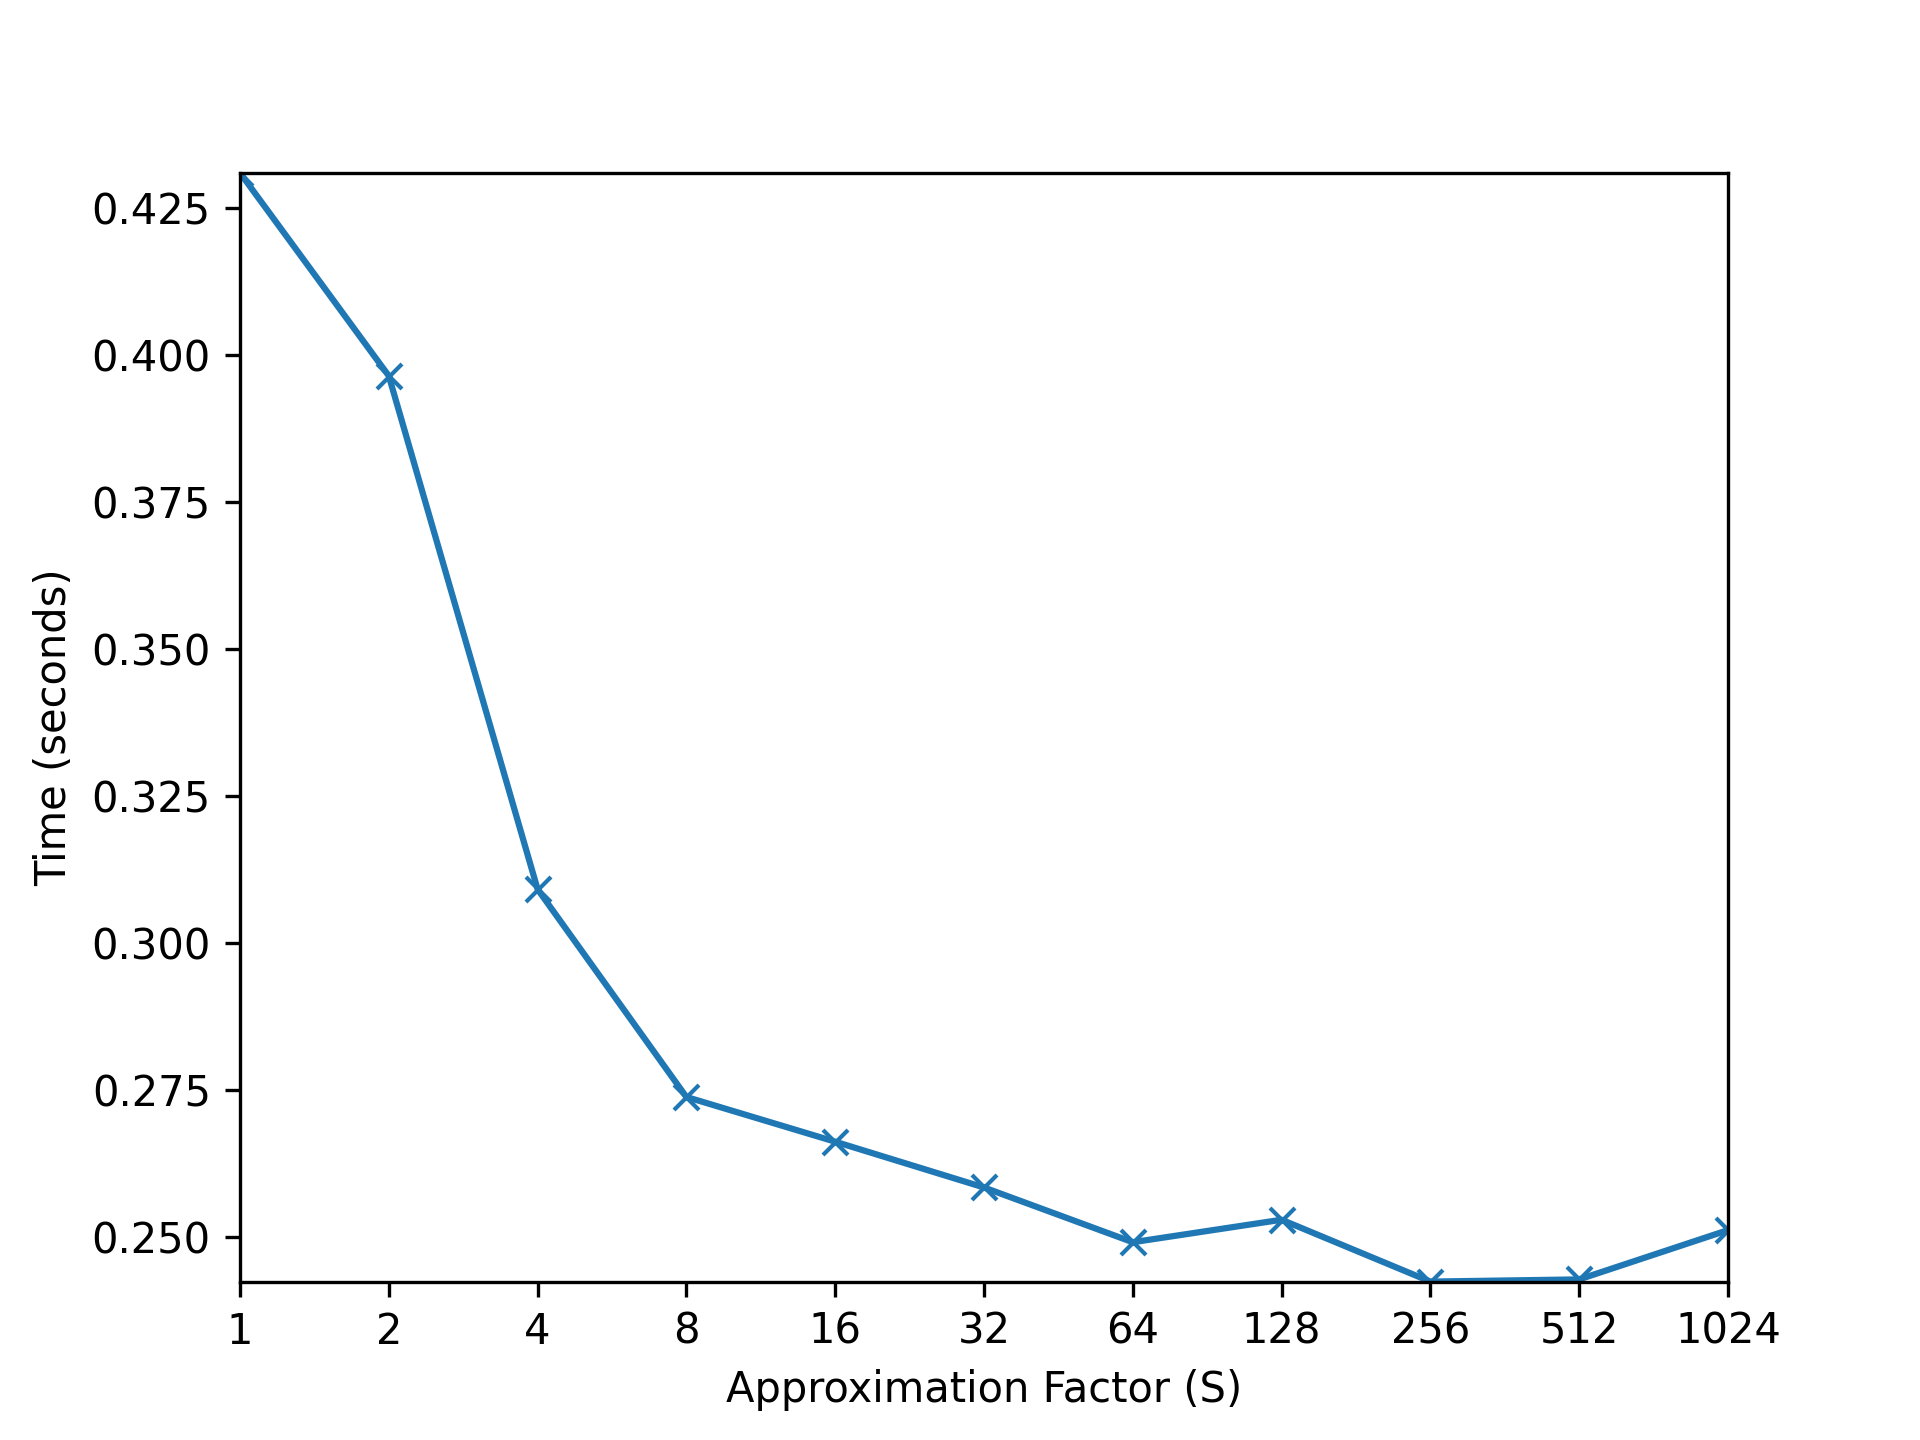
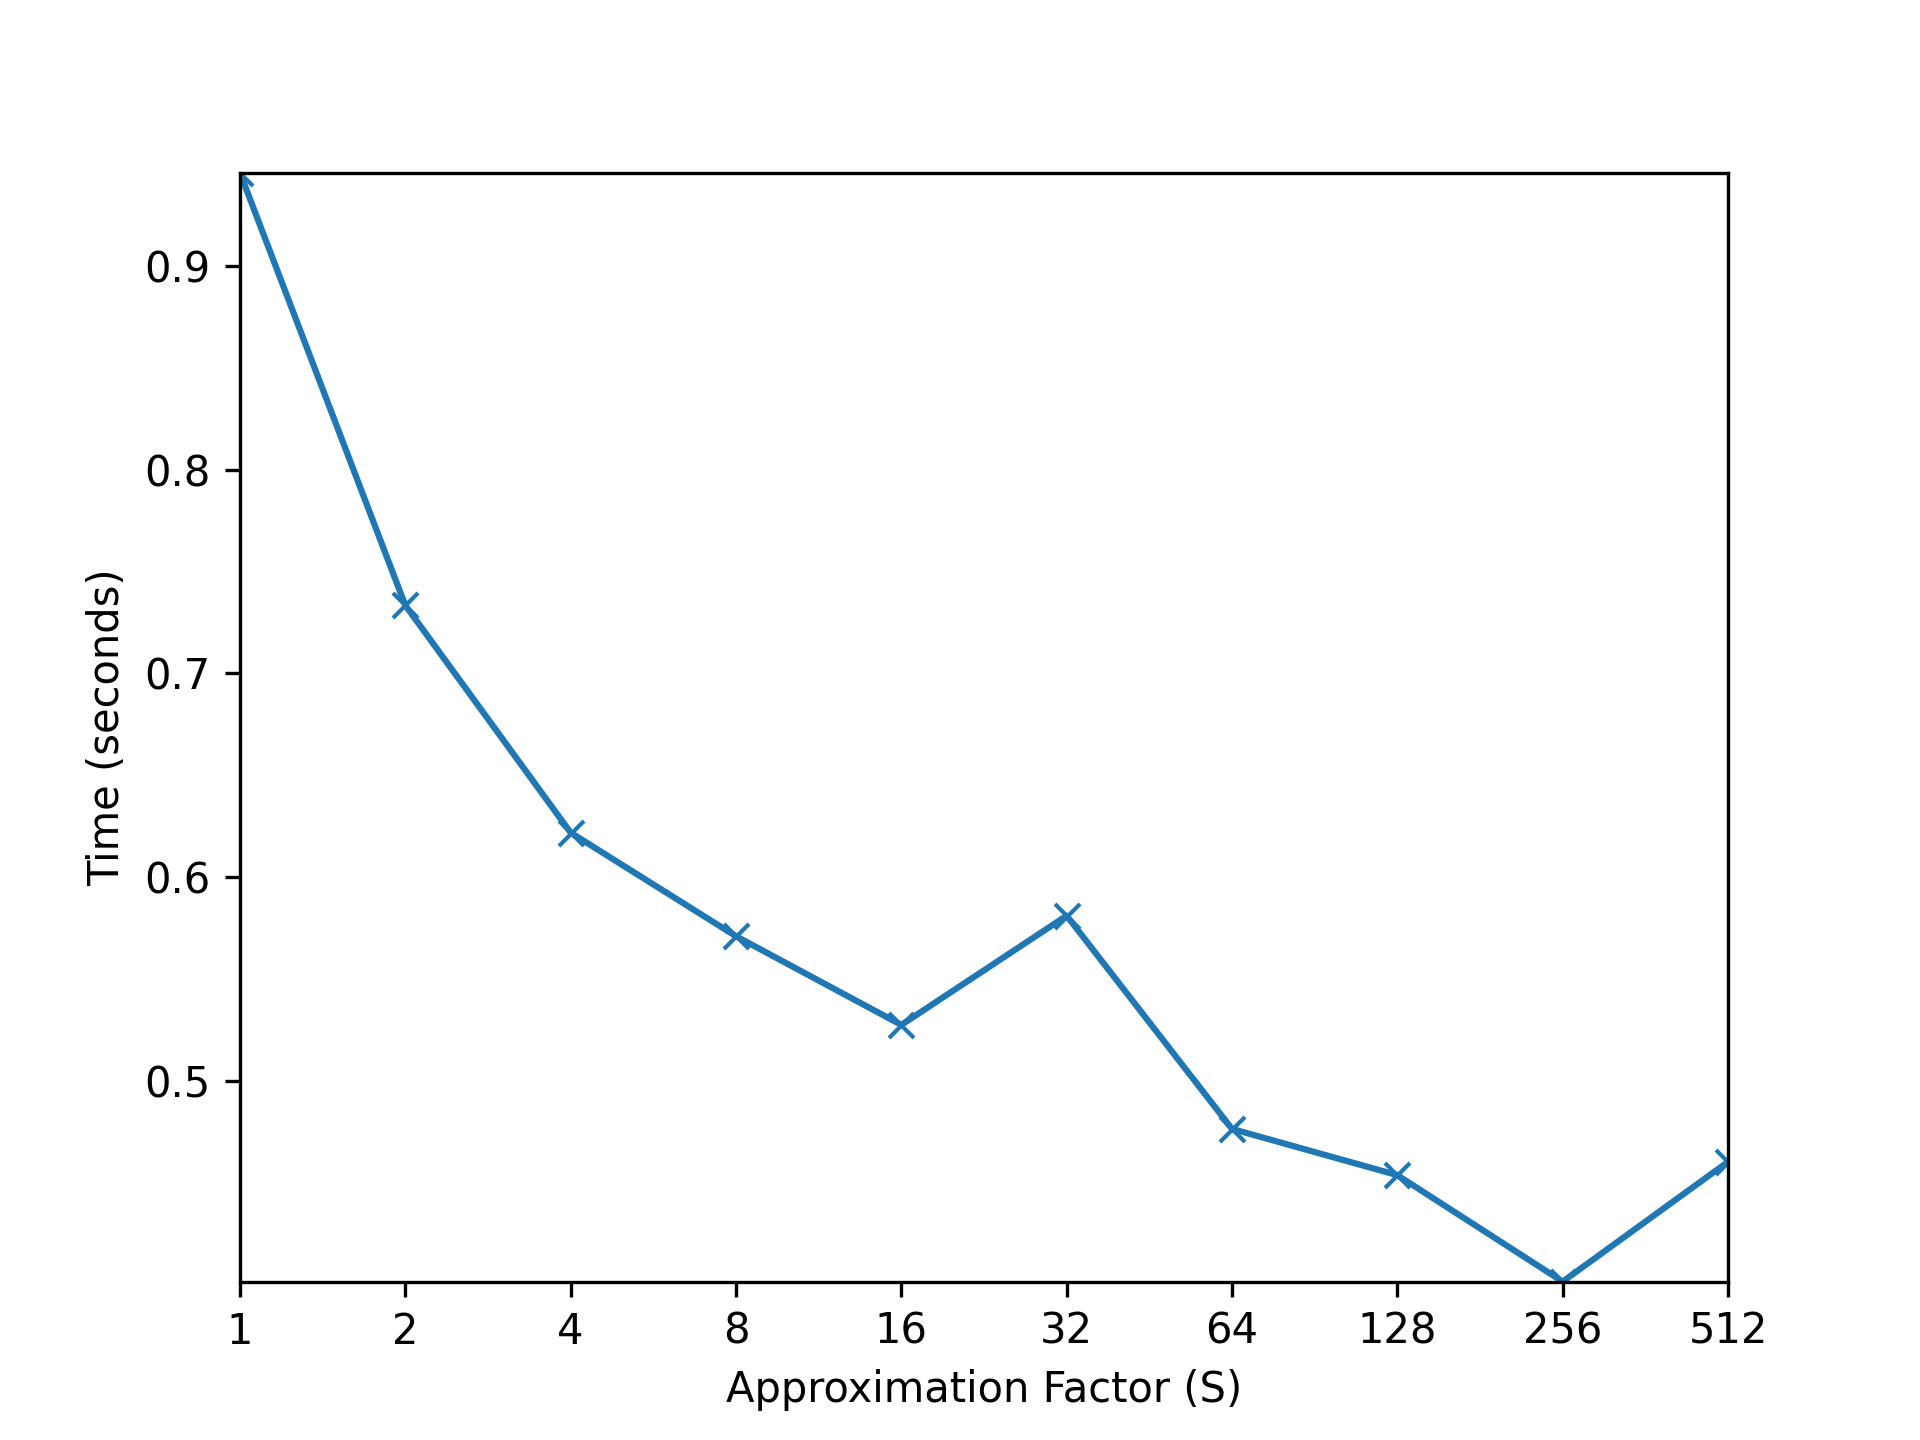
benchmark counter

diff --git a/C/concurrent_counter.c b/C/concurrent_counter.c
@@ -1,12 +1,11 @@
 #include "errno.h"
 #include "util.h"
-#include <math.h>
 #include <pthread.h>
 #include <stdio.h>
 #include <stdlib.h>
 #include <time.h>
 
-#define NUMCPUS 4
+#define NUMCPUS 10
 #define ONE_MILLION 1000000
 
 typedef struct counter_t {
@@ -37,15 +36,16 @@ void init(counter_t *c, int threshold) {
 //         uses locks to prevent race conditions when accessing the shared
 //         global counter.
 void update(counter_t *c, int thread_id, int value) {
-  pthread_mutex_lock(&c->llocks[thread_id]);
-  c->locals[thread_id] += value;
-  if (c->locals[thread_id] >= c->threshold) {
+  int cpu = thread_id % NUMCPUS;
+  pthread_mutex_lock(&c->llocks[cpu]);
+  c->locals[cpu] += value;
+  if (c->locals[cpu] >= c->threshold) {
     pthread_mutex_lock(&c->glock);
-    c->global += c->locals[thread_id];
+    c->global += c->locals[cpu];
     pthread_mutex_unlock(&c->glock);
-    c->locals[thread_id] = 0;
+    c->locals[cpu] = 0;
   }
-  pthread_mutex_unlock(&c->llocks[thread_id]);
+  pthread_mutex_unlock(&c->llocks[cpu]);
 }
 
 int get(counter_t *c) {
@@ -61,64 +61,69 @@ typedef struct __myarg_t {
   int threshold;
   int amt;
   int threads;
-  char pad[sizeof(counter_t *) - sizeof(int)];
 } myarg_t;
 
 void *thread_function(void *arg) {
   myarg_t *m = (myarg_t *)(arg);
+  pthread_t thread_id = pthread_self();
+
   for (int i = 0; i < ONE_MILLION; i++)
-    update(m->c, m->threads, m->amt);
+    update(m->c, (int)thread_id, m->amt);
   pthread_exit(0);
 }
 
 int main() {
-  for (int i = 0; i < 10; i++) {
-    double threshold = pow(2, i);
-    for (int j = 1; j < NUMCPUS; j++) {
-      counter_t *c = malloc(sizeof(counter_t));
-      if (c == NULL) {
-        handle_error(errno, "malloc");
-      }
-      init(c, threshold);
-
-      pthread_t *threads = malloc((size_t)j * sizeof(pthread_t));
-      if (threads == NULL) {
-        handle_error(errno, "malloc");
-      }
-      myarg_t args;
-      args.c = c;
-      args.threshold = (int)threshold;
-      args.amt = 1;
-      args.threads = j;
-
-      struct timespec start, end;
-      clock_gettime(CLOCK_MONOTONIC,
-                    &start); // Use clock_gettime instead of clock()
-      for (int k = 0; k < j; k++) {
-        pthread_create(&threads[k], NULL, thread_function, &args);
-      }
-
-      for (int k = 0; k < j; k++) {
-        pthread_join(threads[k], NULL);
-      }
-
-      clock_gettime(CLOCK_MONOTONIC,
-                    &end); // Use clock_gettime instead of clock()me =
-      double time_taken = end.tv_sec - start.tv_sec;
-      time_taken +=
-          (end.tv_nsec - start.tv_nsec) / 1e9; // Convert nanoseconds to seconds
-      printf("%d threads, %d threshold\n", j, (int)threshold);
-      printf("%d global counter\n", get(c));
-      printf("Time (seconds): %f\n\n", time_taken);
-
-      pthread_mutex_destroy(&c->glock);
-      for (int m = 0; m < NUMCPUS; m++)
-        pthread_mutex_destroy(&c->llocks[m]);
-
-      free(c);
-      free(threads);
+  int count = 0;
+  // for (int i = 1; i < NUMCPUS; i++) {
+  // double threshold = pow(2, i);
+  int threshold = 512;
+  for (int j = 1; j <= NUMCPUS; j++) {
+    count++;
+    counter_t *c = malloc(sizeof(counter_t));
+    if (c == NULL) {
+      handle_error(errno, "malloc");
     }
+    init(c, threshold);
+
+    pthread_t *threads = malloc((size_t)j * sizeof(pthread_t));
+    if (threads == NULL) {
+      handle_error(errno, "malloc");
+    }
+    myarg_t args;
+    args.c = c;
+    args.threshold = (int)threshold;
+    args.amt = 1;
+    args.threads = j;
+
+    struct timespec start, end;
+    clock_gettime(CLOCK_MONOTONIC,
+                  &start); // Use clock_gettime instead of clock()
+    for (int k = 0; k < j; k++) {
+      pthread_create(&threads[k], NULL, thread_function, &args);
+    }
+
+    for (int k = 0; k < j; k++) {
+      pthread_join(threads[k], NULL);
+    }
+
+    clock_gettime(CLOCK_MONOTONIC,
+                  &end); // Use clock_gettime instead of clock()me =
+    double time_taken = end.tv_sec - start.tv_sec;
+    time_taken +=
+        (end.tv_nsec - start.tv_nsec) / 1e9; // Convert nanoseconds to seconds
+    printf("%d threads, %d threshold\n", j, (int)threshold);
+    printf("%d global counter\n", get(c));
+    printf("Time (seconds): %f\n\n", time_taken);
+
+    pthread_mutex_destroy(&c->glock);
+    for (int m = 0; m < NUMCPUS; m++)
+      pthread_mutex_destroy(&c->llocks[m]);
+
+    free(c);
+    free(threads);
+    // }
   }
+  printf("============ %d\n", count);
 
   return 0;
 }

diff --git a/C/simple_counter.c b/C/simple_counter.c
@@ -1,0 +1,105 @@
+#include "util.h"
+#include <errno.h>
+#include <pthread.h>
+#include <stdio.h>
+#include <stdlib.h>
+#include <unistd.h>
+
+#define NUMCPUS 10
+#define ONE_MILLION 10000000
+
+typedef struct __counter_t {
+  pthread_mutex_t lock;
+  int value;
+} counter_t;
+
+static void init(counter_t *c) {
+  c->value = 0;
+  pthread_mutex_init(&c->lock, NULL);
+}
+
+static void increment(counter_t *c) {
+  pthread_mutex_lock(&c->lock);
+  c->value++;
+  pthread_mutex_unlock(&c->lock);
+}
+
+static int get(counter_t *c) {
+  pthread_mutex_lock(&c->lock);
+  int rc = c->value;
+  pthread_mutex_unlock(&c->lock);
+  return rc;
+}
+
+typedef struct __myarg_t {
+  counter_t *counter;
+} myarg_t;
+
+static void *thread_function(void *arg) {
+  myarg_t *m = (myarg_t *)arg;
+  for (int i = 0; i < ONE_MILLION; i++)
+    increment(m->counter);
+
+  pthread_exit(0);
+}
+
+int main() {
+  long num_cpus;
+
+  num_cpus = sysconf(_SC_NPROCESSORS_ONLN);
+  if (num_cpus < 1) {
+    perror("sysconf");
+    return -1;
+  }
+
+  printf("Number of CPUs: %ld\n", num_cpus);
+  int count = 0;
+  //   for (int i = 1; i < NUMCPUS; i++) {
+  for (int j = 1; j <= NUMCPUS; j++) {
+    count++;
+    counter_t *c = malloc(sizeof(counter_t));
+    if (c == NULL) {
+      handle_error(errno, "malloc");
+    }
+    init(c);
+
+    pthread_t *threads = malloc((size_t)j * sizeof(pthread_t));
+    if (threads == NULL) {
+      handle_error(errno, "malloc");
+    }
+
+    myarg_t *args = malloc((size_t)j * sizeof(myarg_t));
+    if (args == NULL) {
+      handle_error(errno, "malloc");
+    }
+
+    struct timespec start, end;
+    clock_gettime(CLOCK_MONOTONIC,
+                  &start); // Use clock_gettime instead of clock()
+
+    for (int k = 0; k < j; k++) {
+      args[k].counter = c;
+      pthread_create(&threads[k], NULL, &thread_function, &args[k]);
+    }
+
+    for (int k = 0; k < j; k++) {
+      pthread_join(threads[k], NULL);
+    }
+
+    clock_gettime(CLOCK_MONOTONIC,
+                  &end); // Use clock_gettime instead of clock()me =
+    double time_taken = end.tv_sec - start.tv_sec;
+    time_taken +=
+        (end.tv_nsec - start.tv_nsec) / 1e9; // Convert nanoseconds to seconds
+    printf("%d global counter\n", get(c));
+    printf("Time (seconds): %f\n\n", time_taken);
+
+    pthread_mutex_destroy(&c->lock);
+    free(c);
+    free(args);
+    //   }
+  }
+  printf("============ %d\n", count);
+
+  return 0;
+}

diff --git a/C/plot.py b/C/plot.py
@@ -5,8 +5,8 @@ import numpy as np
 
 # traditional = [0.019966, 0.095837, 0.180244, 0.195340]
 # approximate = [0.021546, 0.108778, 0.191885, 0.248192]
-approximate = [0.430974, 0.396419, 0.309085, 0.273745, 0.266137,
-               0.258349, 0.249036, 0.252860, 0.242337, 0.242711, 0.251097]
+approximate = [0.945753, 0.733360, 0.621774, 0.570917, 0.527375,
+               0.580986, 0.476303, 0.453609, 0.401342, 0.460146]
 a = np.arange(0, 10)
 s = 2 ** a
 
